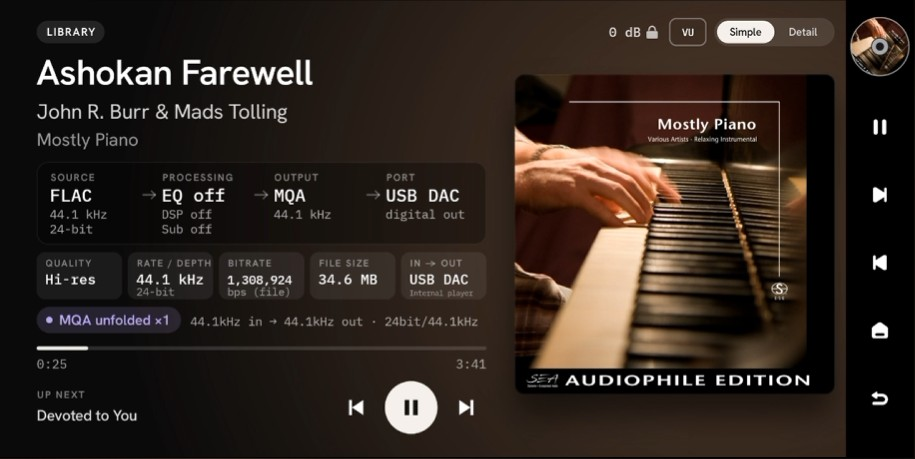
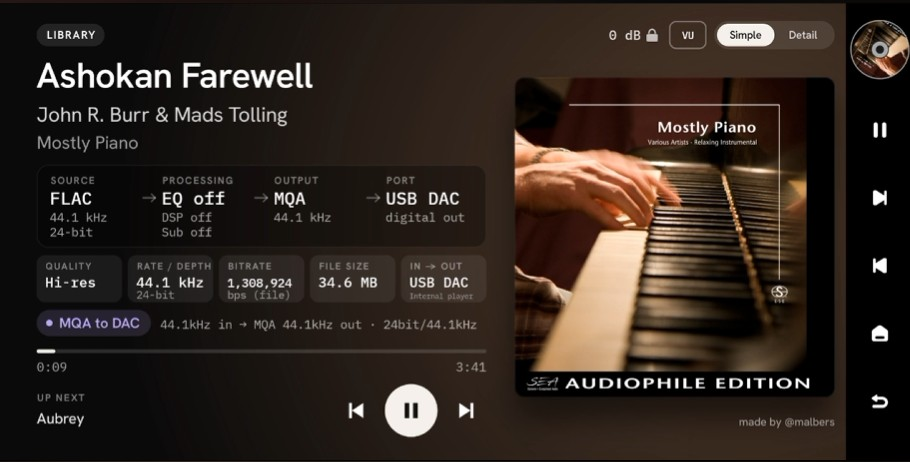
README: MQA to DAC and EQ active screenshots from 1.0.0
Claude-Session: https://claude.ai/code/session_012mTvDEUSqrcsnv6ehQvGKv

diff --git a/README.md b/README.md
@@ -29,7 +29,9 @@ Big, readable from across the room:
 - Play/pause, next, previous and up next, plus a **VU** button that switches the Eversolo's own screen to its VU meters.
 - **made by @malbers** under the cover opens my YouTube channel, if you have a browser on the Eversolo.
 
-![MQA from the library, sent to the DAC](docs/screenshots/1b-simple-mqa.jpg)
+| MQA from the library, sent to the DAC | EQ on: no longer bit-perfect, and it says so |
+|---|---|
+| ![MQA to DAC](docs/screenshots/1b-simple-mqa.jpg) | ![EQ active](docs/screenshots/1c-simple-eq.jpg) |
 
 ### Detail: stats for nerds
 
